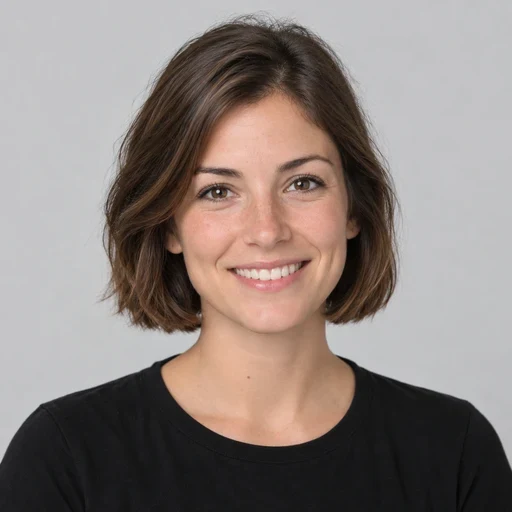
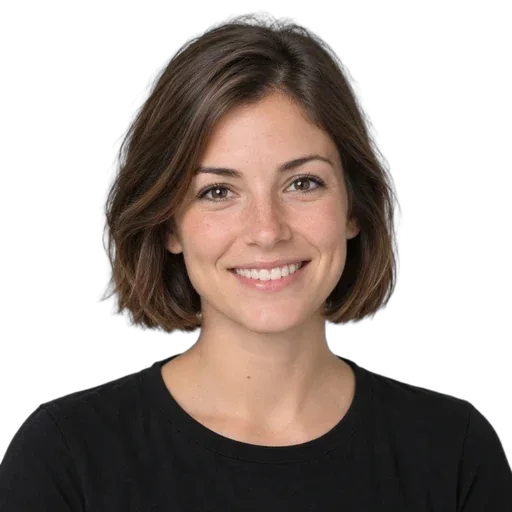
feat: ship the six portraits of the receptionist casting

diff --git a/docs/ASSISTANT_MODULE.md b/docs/ASSISTANT_MODULE.md
@@ -195,9 +195,10 @@ C'est le **produit** que le client colle sur son site. Il porte :
   `demo-host/app/constants/AssistantCasting.ts`, `web/app/constants/assistantCasting.ts` et `PERSONA_FIRST_NAMES`
   côté API. À la création, l'API attribue le prénom par rotation sur l'id du prospect ; dans Personnaliser, le
   client choisit un visage (`AssistantPersonaPicker`, six cartes) ou tape un autre prénom, qui garde le visage d'un
-  des six du même genre (`AssistantAvatarUtils.portraitUrl`, choix stable par hachage du prénom). Les portraits sont
-  attendus dans `demo-host/public/avatars/{slug}.webp` (carrés, fond gris neutre, tee-shirt noir, sourire, aucune
-  lumière colorée : l'accent ne teinte plus la photo, il cercle le portrait) ; tant qu'un fichier manque,
+  des six du même genre (`AssistantAvatarUtils.portraitUrl`, choix stable par hachage du prénom). Les six portraits sont
+  livrés dans `demo-host/public/avatars/{slug}.webp` (512 px, détourés sur fond transparent, tee-shirt noir,
+  sourire ; générés par Léo avec ChatGPT le 25/09) : le disque derrière la photo prend la teinte de l'accent et le
+  cercle l'accent lui-même, la photo elle-même n'est jamais teintée ; si un fichier venait à manquer,
   `AssistantAvatar` retombe sur le buste dessiné (`@dicebear/notionists`, sur `@error` et à l'hydratation quand
   l'image a déjà échoué côté serveur).
 - **Polices servies par le demo-host (25/09)** : Fraunces et Inter (licence OFL) en woff2 dans `public/fonts/`,

diff --git a/docs/HANDOVER_RECEPTIONNISTE_PHASE_1.md b/docs/HANDOVER_RECEPTIONNISTE_PHASE_1.md
@@ -941,11 +941,10 @@ jusqu'à ce que ça te plaise à toi »)** :
 - **Prompt** : en cas d'information manquante, une phrase simple puis ce que l'assistante peut faire (jamais « je ne
   dispose pas d'informations ») ; deux à trois phrases courtes par réponse.
 
-**À faire par Léo** : générer les six portraits avec Gemini ou ChatGPT (prompt donné dans la conversation du
-25/09 : portrait carré, tête et épaules, fond gris neutre uni `#dcdcdc`, tee-shirt noir à col rond, sourire chaleureux,
-objectif 85 mm, lumière douce sans couleur) et les déposer dans `demo-host/public/avatars/` sous `sofia.webp`,
-`hugo.webp`, `lea.webp`, `marc.webp`, `ines.webp`, `nathan.webp` (carrés 512 px). Rien à déclarer dans le code :
-tant qu'un fichier manque, le buste dessiné s'affiche à sa place.
+**Fait par Léo le 25/09** : les six portraits générés avec ChatGPT (Gemini comparé et écarté : lumière froide,
+visage plus petit dans le cercle), détourés sur fond transparent, déposés dans `demo-host/public/avatars/` et
+ré-encodés en 512 px WebP avec transparence. Le disque à la teinte de l'accent sert de fond ; le détourage est propre
+jusque dans les cheveux d'Inès et de Sofia. Rien à déclarer dans le code.
 
 **À tester par Léo** (toujours avec `?internal=1` sur les pages du demo-host) : `/ia/{slug}` sur desktop et
 mobile (une demande envoyée depuis le téléphone de gauche doit mettre à jour la notification de droite), le widget
